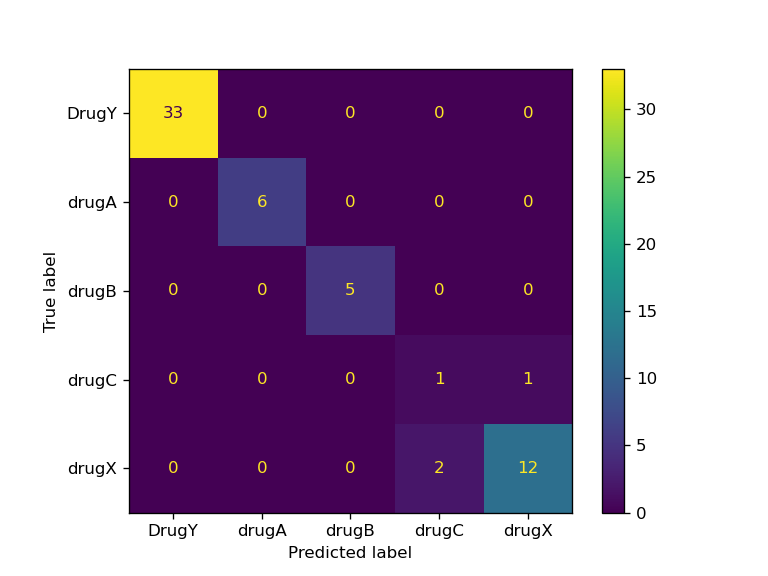
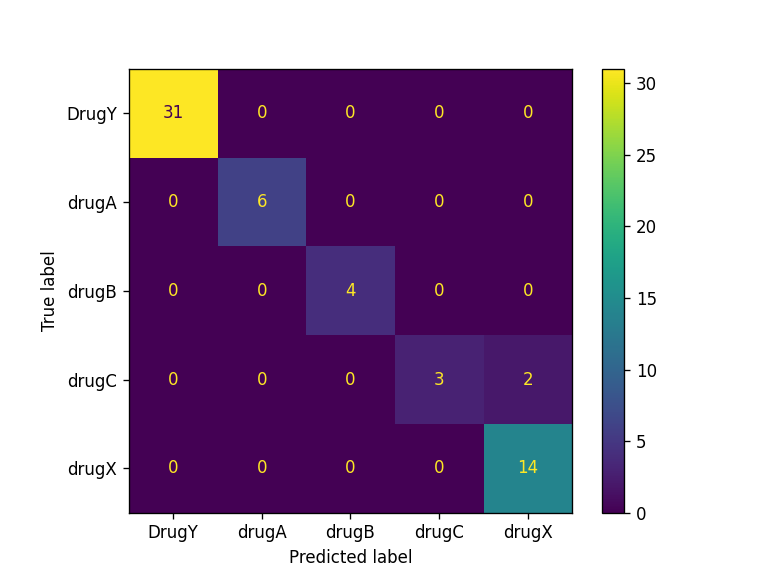
Update with new results [skip ci]

diff --git a/train.py b/train.py
@@ -23,8 +23,8 @@ X_train, X_test, y_train, y_test = train_test_split(
 
 
 ## Pipeline
-cat_col = [1,2,3]
-num_col = [0,4]
+cat_col = [1, 2, 3]
+num_col = [0, 4]
 
 transform = ColumnTransformer(
     [

diff --git a/report.md b/report.md
@@ -1,0 +1,5 @@
+## Model Metrics
+
+Accuracy = 0.97, F1 Score = 0.94
+## Confusion Matrix Plot
+![Confusion Matrix](./Results/model_results.png)